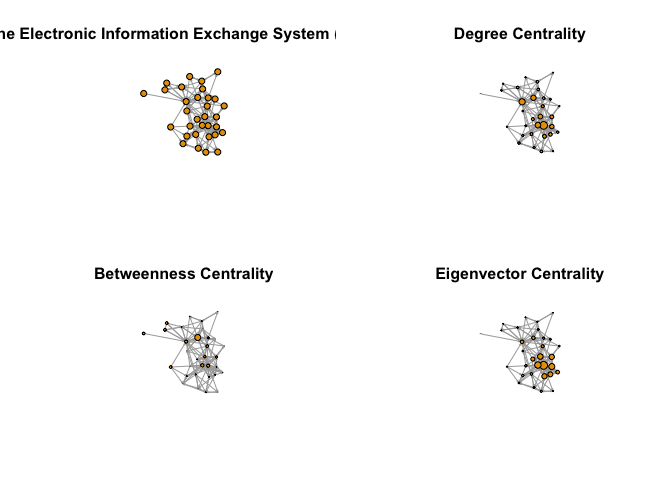
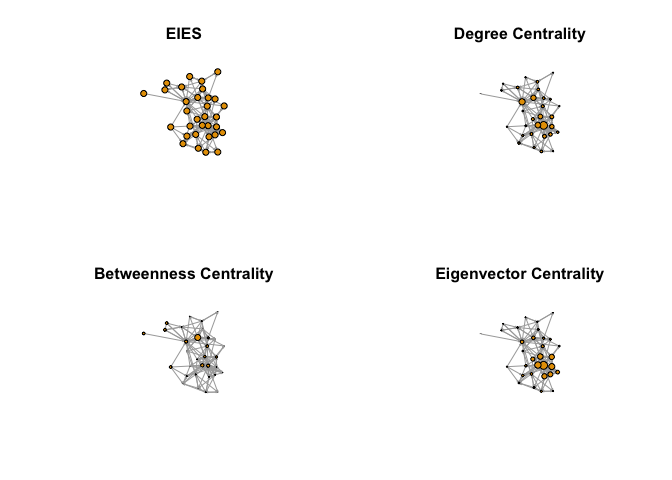
Minor corrections

Changed region(s): [[0.0, 0.0312, 0.5, 0.0938]]

diff --git a/sna_lab.md b/sna_lab.md
@@ -411,9 +411,9 @@ rowSums(homophily)/rowSums(matrix) # porcentaje de lazos emitidos que son homóf
 ```
 
 Índice de Peter Blau ([Blau,
-1977](https://www.jstor.org/stable/2777762)) y la normalización del
-índice de IQV (Index of Qualitative Variation) de Agresti ([Agresti y
-Agresti, 1978](https://doi.org/10.2307/270810))
+1977](https://books.google.ch/books/about/Inequality_and_Heterogeneity.html?id=jvq2AAAAIAAJ&redir_esc=y))
+y la normalización del índice de IQV (Index of Qualitative Variation) de
+Agresti ([Agresti y Agresti, 1978](https://doi.org/10.2307/270810))
 
 ``` r
 blau <- function(att, normalized = FALSE){
@@ -471,7 +471,7 @@ layout <- layout.fruchterman.reingold(g)
 plot(g,layout = layout,
      vertex.label=NA,
      edge.arrow.size=0.1,
-     main="The Electronic Information Exchange System (EIES)")
+     main="EIES")
 plot(g, layout=layout, 
      vertex.label=NA,
      vertex.size=deg*0.75, 
